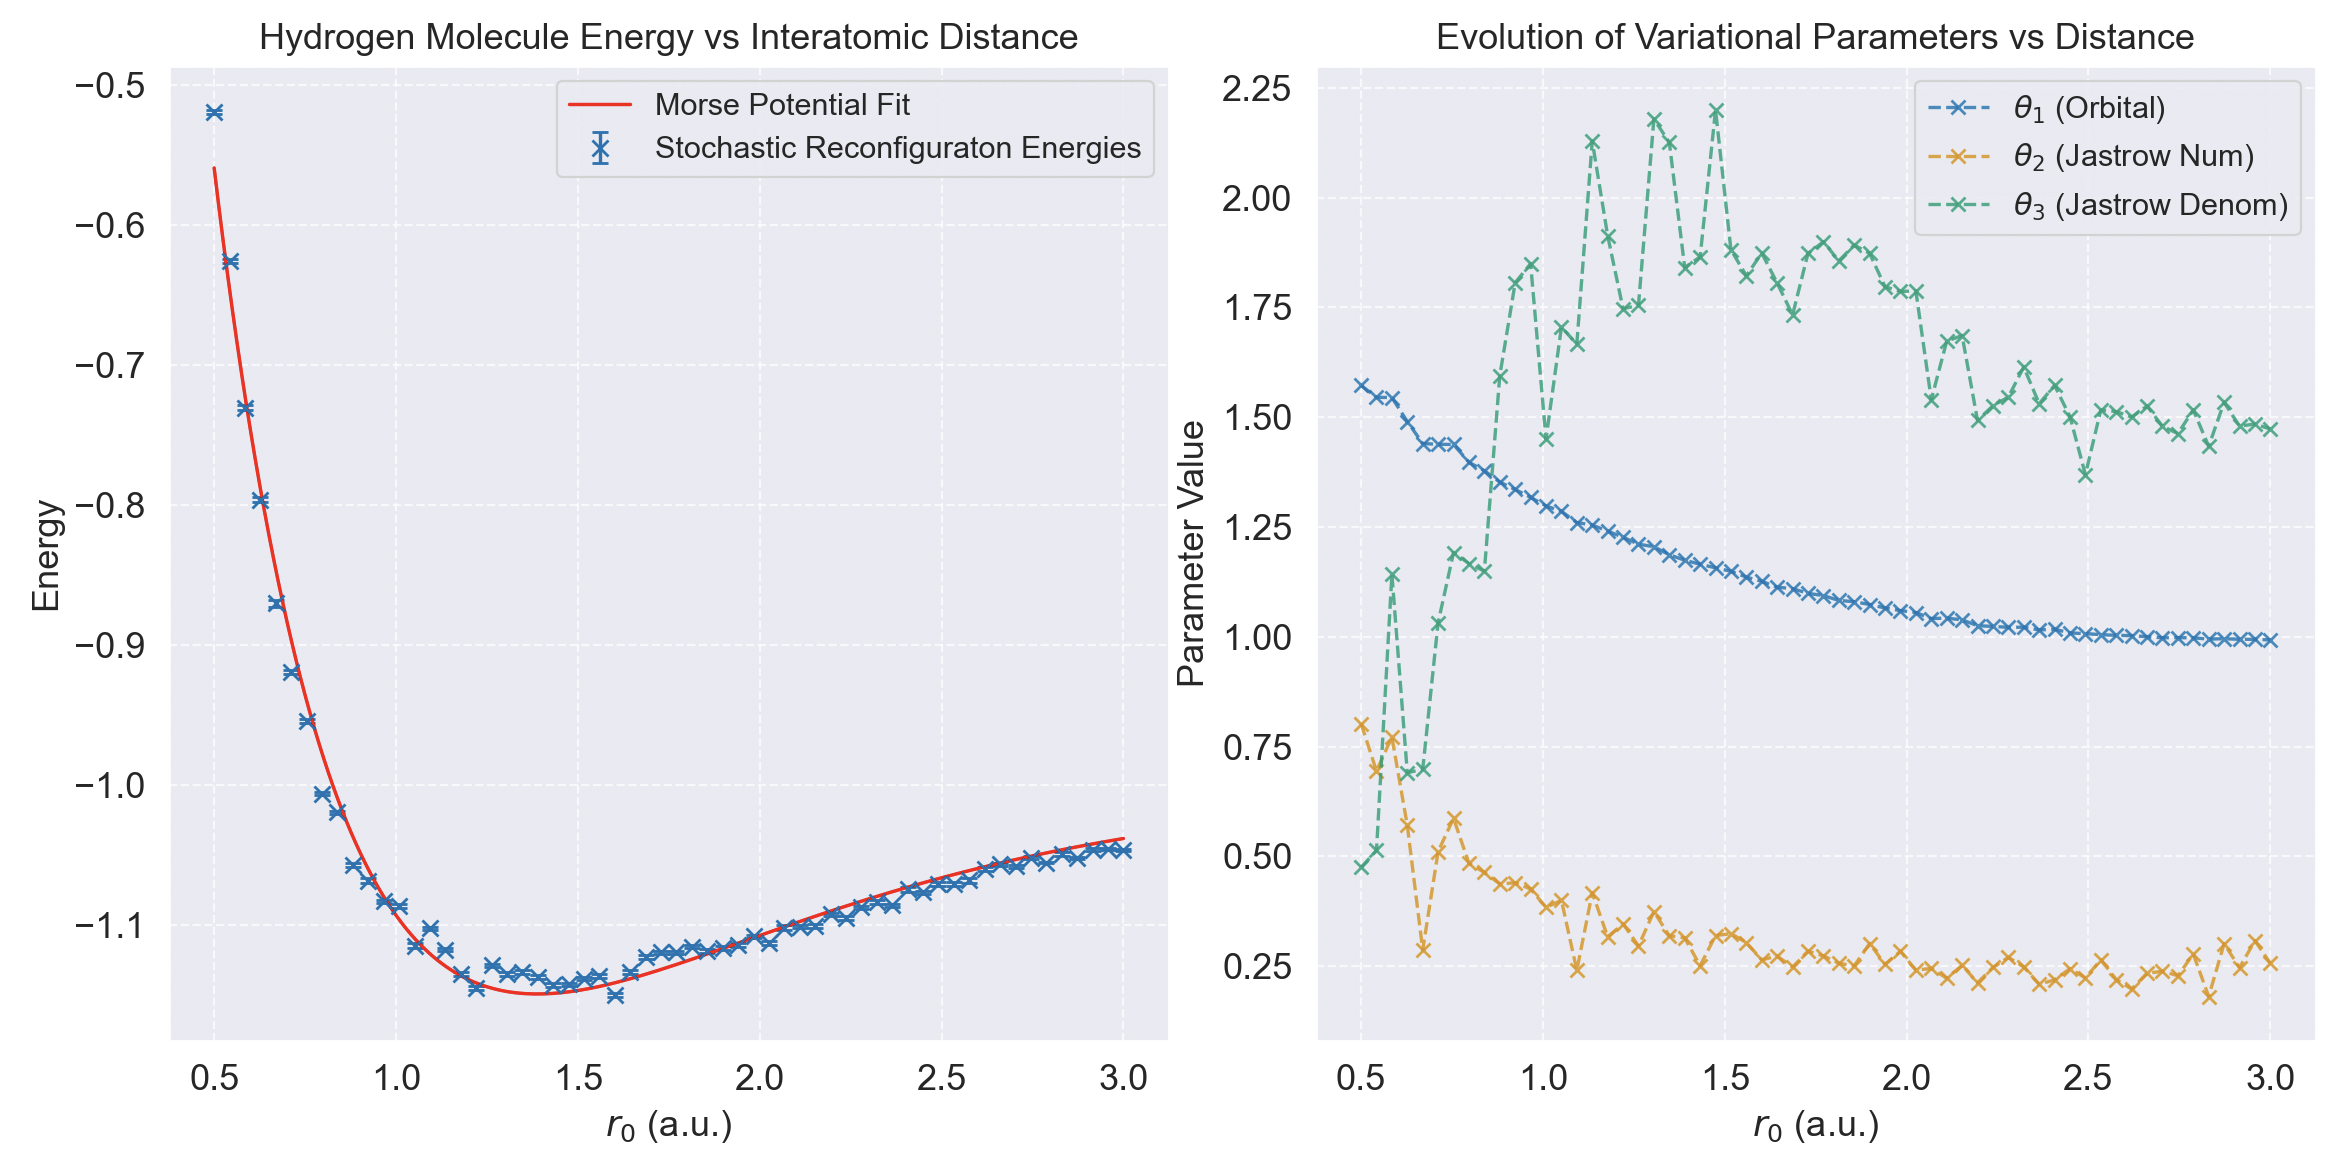
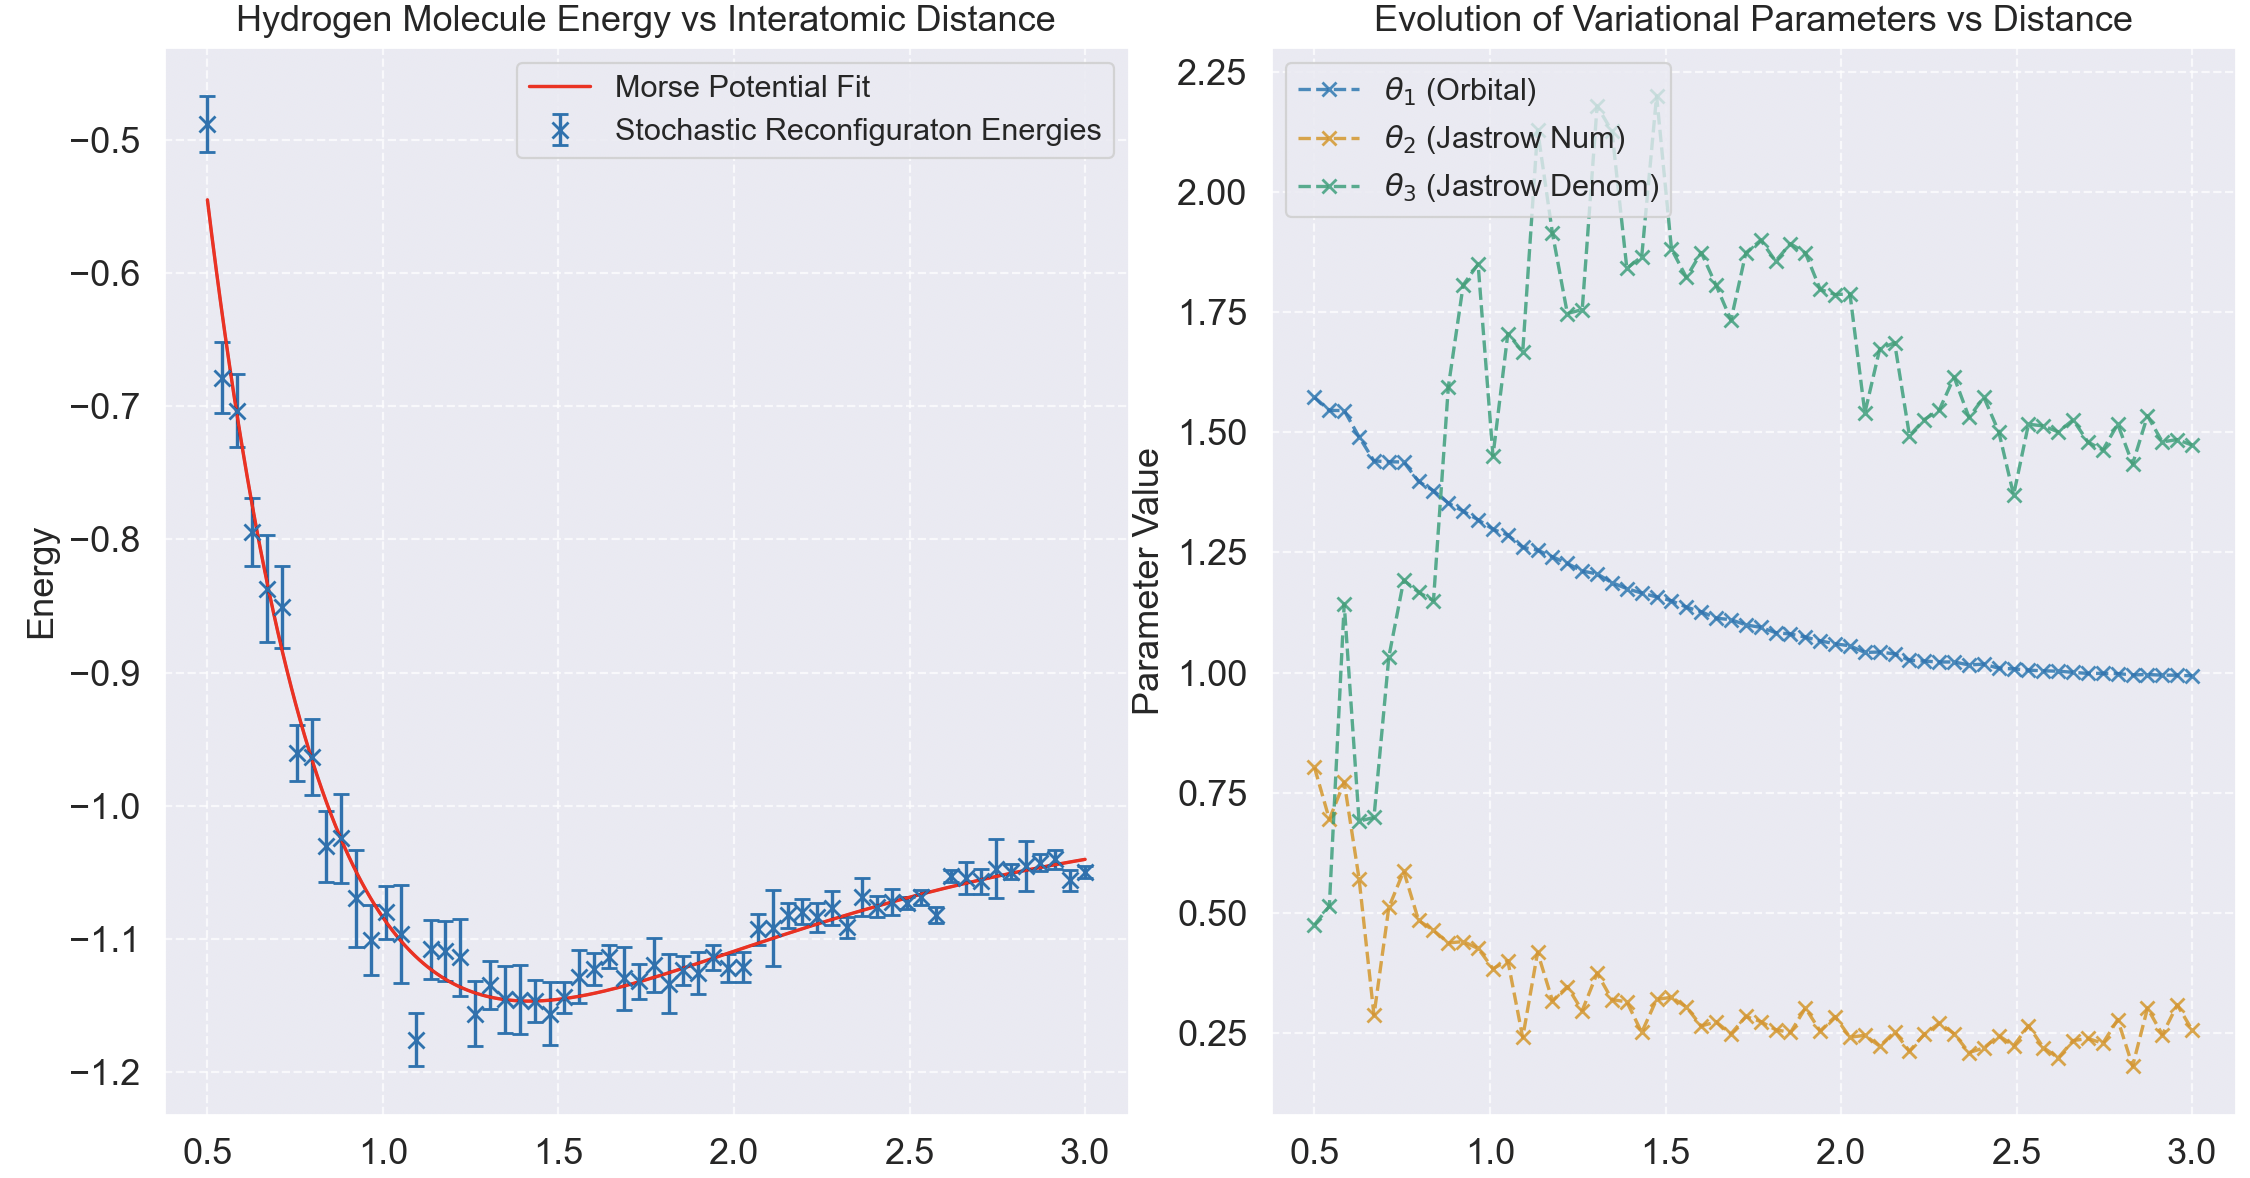
morse figure

diff --git a/Project/hydrogen_molecule.py b/Project/hydrogen_molecule.py
@@ -380,7 +380,7 @@ def process_bond_length(args):
     print(f"Processing bond length: {r_val} a.u.")
 
     theta_min, E_min, E_err = minimisers.stochastic_reconfiguration(
-        q1, q2_i, x_0=thetas_0, alpha=0.2, stop_tol=0.005, N_s=Ns,
+        q1, q2_i, x_0=thetas_0, alpha=0.2, stop_tol=None, N_s=Ns,
         detail=False, sampling="MH", max_iter=50, return_error=True, trace=True
     )
 
@@ -394,7 +394,7 @@ def process_bond_length(args):
 def parallel_ground_state_energies(n_procs=4):
     import multiprocessing as mp
     from scipy.optimize import curve_fit
-    Ns = 100000
+    Ns = 10000
     r_0 = np.linspace(0.5, 3., 60)
 
     q1 = [0., 0., 0.]
@@ -424,11 +424,11 @@ def parallel_ground_state_energies(n_procs=4):
 
     try:
         data_to_save = np.column_stack((r_sorted, energies, energy_errors))
-        np.savetxt(f"SA_Energy_Curve_{Ns}.txt", data_to_save,
+        np.savetxt(f"SR_Energy_Curve_{Ns}.txt", data_to_save,
                    header="Distance(a.u.)   Energy(Hartree)   Energy_Error(Hartree)")
 
         param_data = np.column_stack((r_sorted, thetas))
-        np.savetxt(f"SA_Parameters_{Ns}.txt", param_data,
+        np.savetxt(f"SR_Parameters_{Ns}.txt", param_data,
                    header="Distance    Theta1    Theta2    Theta3")
         print("Results saved successfully.")
     except Exception as e:
@@ -465,5 +465,5 @@ def parallel_ground_state_energies(n_procs=4):
 if __name__ == '__main__':
     # test_SR()
     # test_minimisers_convergence(alpha=0.1)
-    parallel_ground_state_energies(n_procs=4)
+    parallel_ground_state_energies(n_procs=6)
     # test_samples()

diff --git a/Project/plot_morse.py b/Project/plot_morse.py
@@ -6,7 +6,7 @@ from modules.helpers import hydrogen_molecule_helpers as hlp
 
 
 def plot_energies():
-    energy_filename = "/Users/louis/Library/CloudStorage/OneDrive-ImperialCollegeLondon/Computer Science/Computational Physics/Project/morse_data/SR_Energy_Curve_100000.txt"
+    energy_filename = "/Users/louis/Library/CloudStorage/OneDrive-ImperialCollegeLondon/Computer Science/Computational Physics/Project/morse_data/SR_Energy_Curve_10000.txt"
     thetas_filename = "/Users/louis/Library/CloudStorage/OneDrive-ImperialCollegeLondon/Computer Science/Computational Physics/Project/morse_data/SR_Parameters_100000.txt"
 
     data = pd.read_csv(energy_filename, sep='\s+', comment='#', names=[
@@ -74,7 +74,7 @@ def plot_energies():
     ax[1].set_xlabel("$r_0$ (a.u.)")
     ax[1].set_ylabel("Parameter Value")
     ax[1].set_title("Evolution of Variational Parameters vs Distance")
-    ax[1].legend()
+    ax[1].legend(loc='upper left')
     ax[1].grid(True, which='both', linestyle='--', alpha=0.7)
 
     plt.tight_layout()
